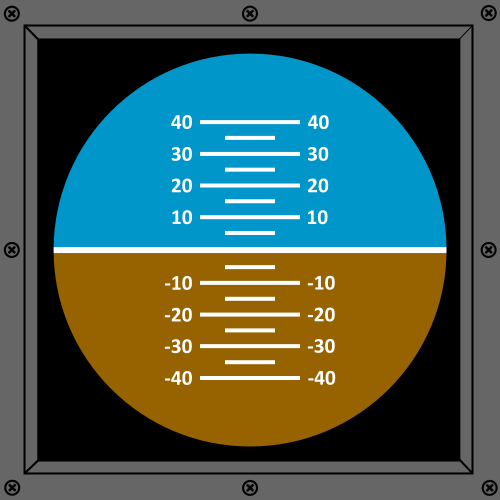
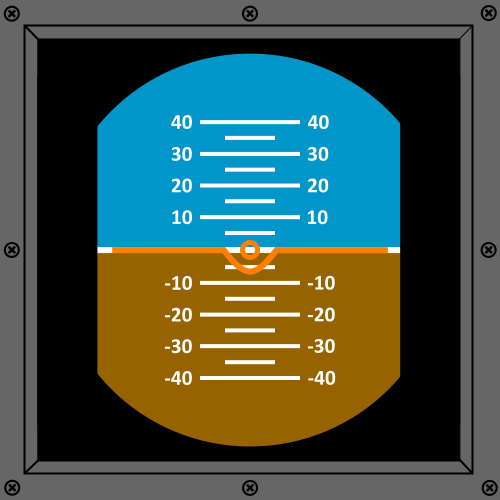
Horizon svg connected to javascript controller

Changed region(s): [[0.09, 0.24, 0.9, 0.75]]

diff --git a/dist/jean-flight-indicator.js b/dist/jean-flight-indicator.js
@@ -604,6 +604,73 @@ define('AltitudeIndicator',["Inheritance", "IndicatorBase", "text!altitude-html"
     return AltitudeIndicator;
 });
 
+define('text!horizon-html',[],function () { return '<div id="horizon-module" style="width: 100%">\r\n    <object id="horizon-svg" style="width: 100%" data="" type="image/svg+xml"></object>\r\n</div>';});
+
+define('HorizonIndicator',["Inheritance", "IndicatorBase", "text!horizon-html"], function (Inheritance, IndicatorBase, html) { // jscs:ignore
+    /**
+     * Provides functionalty for displaying pedal movement values
+     * @alias HorizonIndicator 
+     * @constructor
+     * @extends IndicatorBase
+     * @param {Object} options - options object
+     */
+    var HorizonIndicator = function (options) {
+        var instance = this;
+        options.template = html;
+        Inheritance.inheritConstructor(IndicatorBase, this, options);
+        this.init({  
+            svgId: "horizon-svg",
+            svgDataName: "horizon.svg",
+            onSvgReady: function () { // jscs:ignore
+                instance.horizonElement = instance.svgElement.getElementById("horizon-element");
+                instance.horizonElement.setAttribute("transform", "");
+            }
+        });
+        this.pixelBounds = {
+            PITCH_MAX: 128,
+            PITCH_MIN: -128,
+            PIXELS_PER_PITCH: 128 / 40
+        };
+        this.valueBounds = {
+            PITCH_MAX: 40,
+            PITCH_MIN: -40,
+
+            ROLL_MAX: 30,
+            ROLL_MIN: -30,
+        };
+    };
+    Inheritance.inheritPrototype(HorizonIndicator, IndicatorBase);
+    /** 
+     * @param {Number} pitch - pitch value of aircraft -> range from 40 to -40
+     * @param {Number} roll - roll value of aircraft -> range from 30 to -30
+     */
+    HorizonIndicator.prototype.update = function (pitch, roll) {
+        if (this.isReady) {
+            var pixelBound = this.pixelBounds;
+
+            pitch = pitch > pixelBound.PITCH_MAX ? pixelBound.PITCH_MAX : pitch;
+            pitch = pitch < pixelBound.PITCH_MIN ? pixelBound.PITCH_MIN : pitch;
+
+            roll = roll > pixelBound.ROLL_MAX ? pixelBound.ROLL_MAX : roll;
+            roll = roll < pixelBound.ROLL_MIN ? pixelBound.ROLL_MIN : roll;
+
+            var center = this.getElementCenter(this.horizonElement);
+            this.horizonElement.attributes.transform.nodeValue = "translate(0, " + pixelBound.PIXELS_PER_PITCH * pitch + ")" + " rotate(" + roll + " " + center.x + " " + center.y + ")";
+            /* this.horizonElement.attributes.transform.nodeValue = "rotate(" + roll + " " + center.x + " " + center.y + ")"; */
+        }
+    };
+    return HorizonIndicator;
+});
+/* 
+128   -> 40
+  1   ->  0,3125
+  3,2 ->  1
+
+
+
+-128 -> -40 
+*/;
+
 define('text!stick-html',[],function () { return '<div id="stick-module" style="width: 100%">\r\n    <object id="stick-svg" style="width: 100%" data="" type="image/svg+xml"></object>\r\n</div>';});
 
 define('StickIndicator',["Inheritance", "IndicatorBase", "text!stick-html"], function (Inheritance, IndicatorBase, html) { // jscs:ignore
@@ -763,6 +830,7 @@ define('src/base/FlightIndicator',[
     "CompassIndicator",
     "SpeedIndicator",
     "AltitudeIndicator",
+    "HorizonIndicator",
     "StickIndicator",
     "PedalIndicator",
     "CollectiveIndicator",
@@ -772,6 +840,7 @@ define('src/base/FlightIndicator',[
     CompassIndicator,
     SpeedIndicator,
     AltitudeIndicator,
+    HorizonIndicator,
     StickIndicator,
     PedalIndicator,
     CollectiveIndicator,
@@ -786,6 +855,7 @@ define('src/base/FlightIndicator',[
             Compass: CompassIndicator,
             Speed: SpeedIndicator,
             Altitude: AltitudeIndicator,
+            Horizon: HorizonIndicator,
             Stick: StickIndicator,
             Pedal: PedalIndicator,
             Collective: CollectiveIndicator,

diff --git a/src/Horizon/HorizonIndicator.js b/src/Horizon/HorizonIndicator.js
@@ -1,0 +1,64 @@
+define(["Inheritance", "IndicatorBase", "text!horizon-html"], function (Inheritance, IndicatorBase, html) { // jscs:ignore
+    /**
+     * Provides functionalty for displaying pedal movement values
+     * @alias HorizonIndicator 
+     * @constructor
+     * @extends IndicatorBase
+     * @param {Object} options - options object
+     */
+    var HorizonIndicator = function (options) {
+        var instance = this;
+        options.template = html;
+        Inheritance.inheritConstructor(IndicatorBase, this, options);
+        this.init({  
+            svgId: "horizon-svg",
+            svgDataName: "horizon.svg",
+            onSvgReady: function () { // jscs:ignore
+                instance.horizonElement = instance.svgElement.getElementById("horizon-element");
+                instance.horizonElement.setAttribute("transform", "");
+            }
+        });
+        this.pixelBounds = {
+            PITCH_MAX: 128,
+            PITCH_MIN: -128,
+            PIXELS_PER_PITCH: 128 / 40
+        };
+        this.valueBounds = {
+            PITCH_MAX: 40,
+            PITCH_MIN: -40,
+
+            ROLL_MAX: 30,
+            ROLL_MIN: -30,
+        };
+    };
+    Inheritance.inheritPrototype(HorizonIndicator, IndicatorBase);
+    /** 
+     * @param {Number} pitch - pitch value of aircraft -> range from 40 to -40
+     * @param {Number} roll - roll value of aircraft -> range from 30 to -30
+     */
+    HorizonIndicator.prototype.update = function (pitch, roll) {
+        if (this.isReady) {
+            var pixelBound = this.pixelBounds;
+
+            pitch = pitch > pixelBound.PITCH_MAX ? pixelBound.PITCH_MAX : pitch;
+            pitch = pitch < pixelBound.PITCH_MIN ? pixelBound.PITCH_MIN : pitch;
+
+            roll = roll > pixelBound.ROLL_MAX ? pixelBound.ROLL_MAX : roll;
+            roll = roll < pixelBound.ROLL_MIN ? pixelBound.ROLL_MIN : roll;
+
+            var center = this.getElementCenter(this.horizonElement);
+            this.horizonElement.attributes.transform.nodeValue = "translate(0, " + pixelBound.PIXELS_PER_PITCH * pitch + ")" + " rotate(" + roll + " " + center.x + " " + center.y + ")";
+            /* this.horizonElement.attributes.transform.nodeValue = "rotate(" + roll + " " + center.x + " " + center.y + ")"; */
+        }
+    };
+    return HorizonIndicator;
+});
+/* 
+128   -> 40
+  1   ->  0,3125
+  3,2 ->  1
+
+
+
+-128 -> -40 
+*/

diff --git a/example/index.js b/example/index.js
@@ -14,6 +14,9 @@ $(document).ready(function () {
     var altitude = new FlightIndicator.Altitude({
         containerId: "altitude-container"
     });
+    var horizon = new FlightIndicator.Horizon({
+        containerId: "horizon-container"
+    });
     var stick = new FlightIndicator.Stick({
         containerId: "stick-container"
     });
@@ -107,6 +110,7 @@ $(document).ready(function () {
                     collective.update(collectiveI * 60);
                     speed.update(speedI * 160);
                     altitude.update(altitudeI * 99999);
+                    horizon.update(40 * Math.sin(compassI / 50), (30 * Math.sin(compassI / 150)));
                     compassI++;
                     generateStickIncrement();
                     generateCollectiveIncrement();

diff --git a/src/Base/FlightIndicator.js b/src/Base/FlightIndicator.js
@@ -3,6 +3,7 @@ define([
     "CompassIndicator",
     "SpeedIndicator",
     "AltitudeIndicator",
+    "HorizonIndicator",
     "StickIndicator",
     "PedalIndicator",
     "CollectiveIndicator",
@@ -12,6 +13,7 @@ define([
     CompassIndicator,
     SpeedIndicator,
     AltitudeIndicator,
+    HorizonIndicator,
     StickIndicator,
     PedalIndicator,
     CollectiveIndicator,
@@ -26,6 +28,7 @@ define([
             Compass: CompassIndicator,
             Speed: SpeedIndicator,
             Altitude: AltitudeIndicator,
+            Horizon: HorizonIndicator,
             Stick: StickIndicator,
             Pedal: PedalIndicator,
             Collective: CollectiveIndicator,

diff --git a/example/index.html b/example/index.html
@@ -73,8 +73,7 @@
             </div>
             <div class="col-xs-2 col-sm-2 col-md-2">
                 <h2> Horizon </h2>
-                <div id="cm-module">
-                    <object id="cm-svg" data="../img/coming_soon.svg" type="image/svg+xml"></object>
+                <div id="horizon-container">
                 </div>
             </div>
             <div class="col-xs-2 col-sm-2 col-md-2">

diff --git a/build.js b/build.js
@@ -38,6 +38,9 @@
         "AltitudeIndicator": "src/Altitude/AltitudeIndicator",
         "altitude-html": "src/Altitude/html/altitude.html",
 
+        "HorizonIndicator": "src/Horizon/HorizonIndicator",
+        "horizon-html": "src/Horizon/html/horizon.html",
+
         "StickIndicator": "src/Stick/StickIndicator",
         "stick-html": "src/Stick/html/stick.html",
 

diff --git a/src/Horizon/html/horizon.html b/src/Horizon/html/horizon.html
@@ -1,0 +1,3 @@
+<div id="horizon-module" style="width: 100%">
+    <object id="horizon-svg" style="width: 100%" data="" type="image/svg+xml"></object>
+</div>
